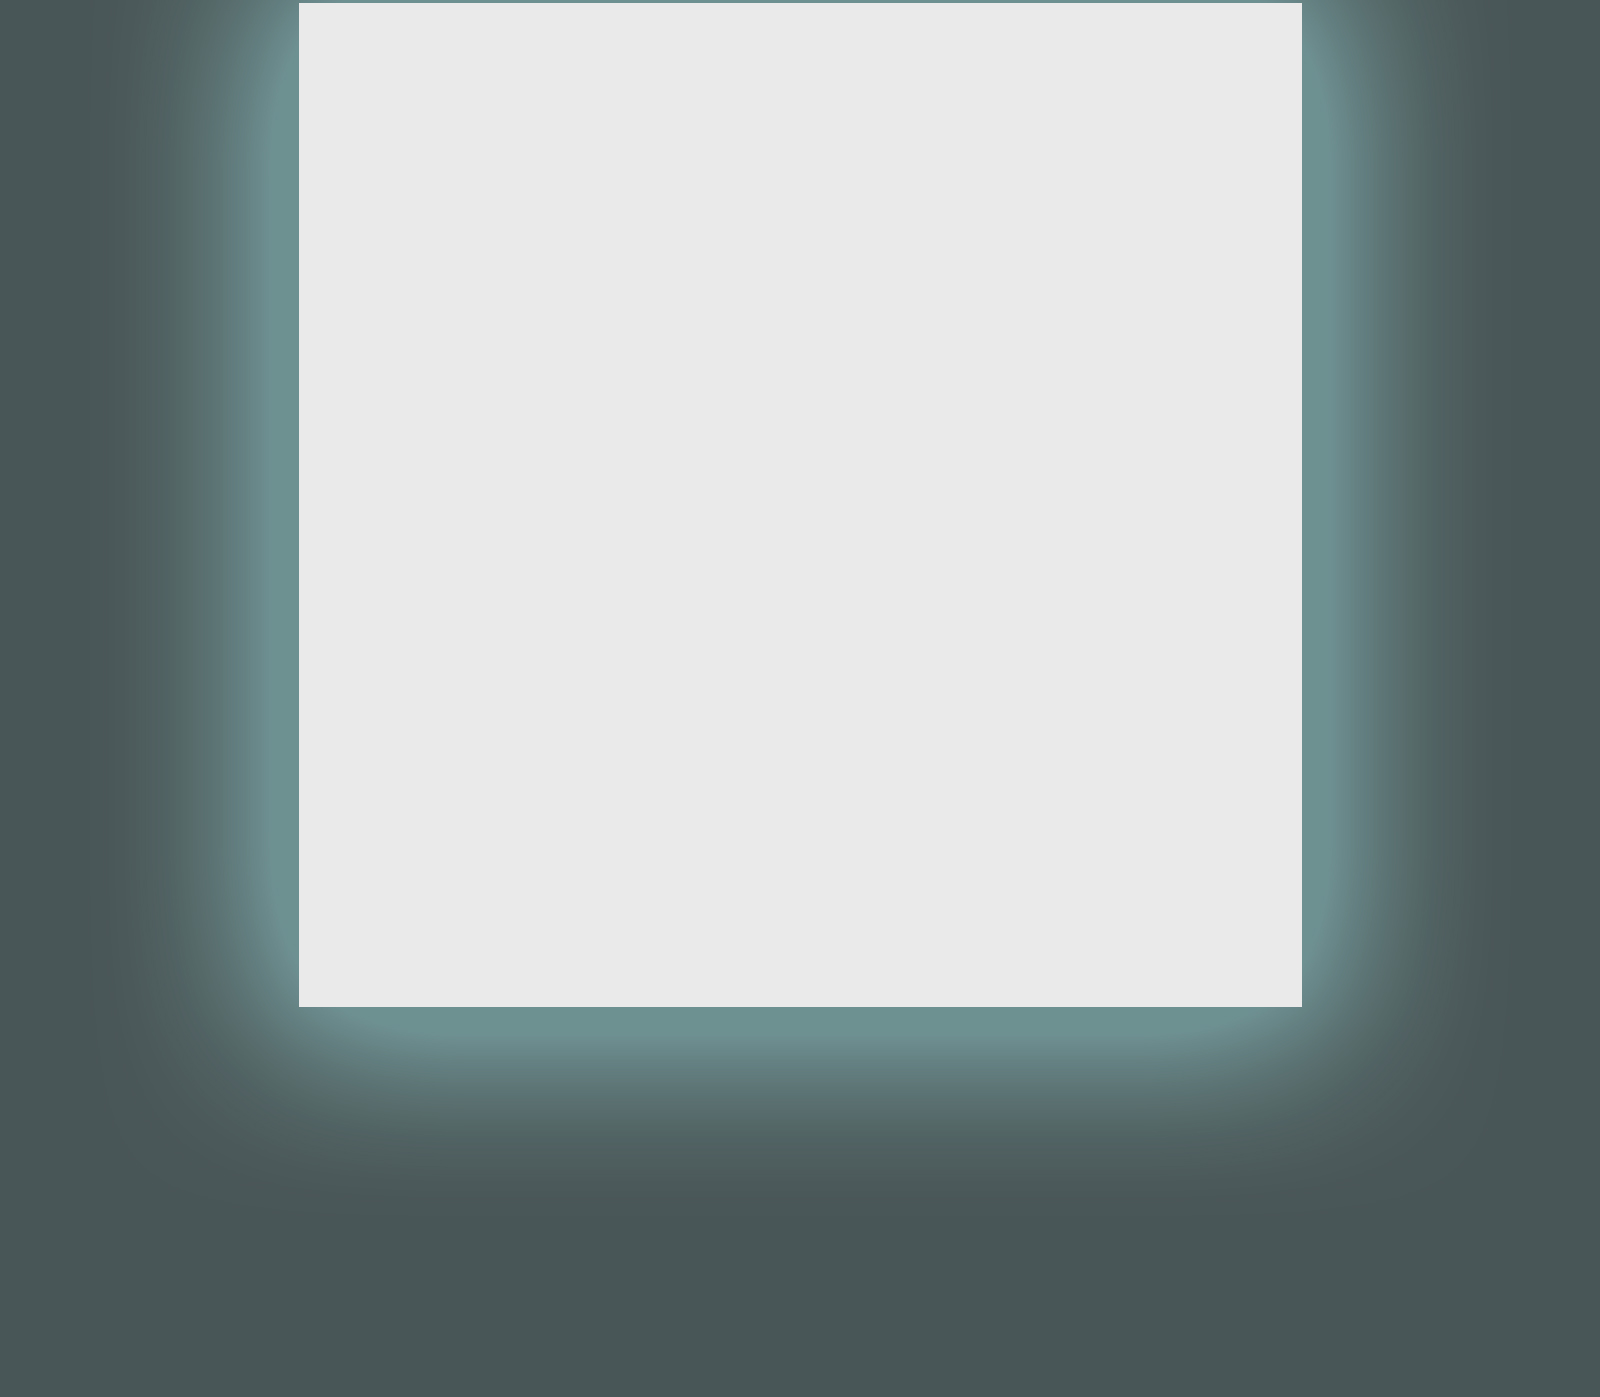
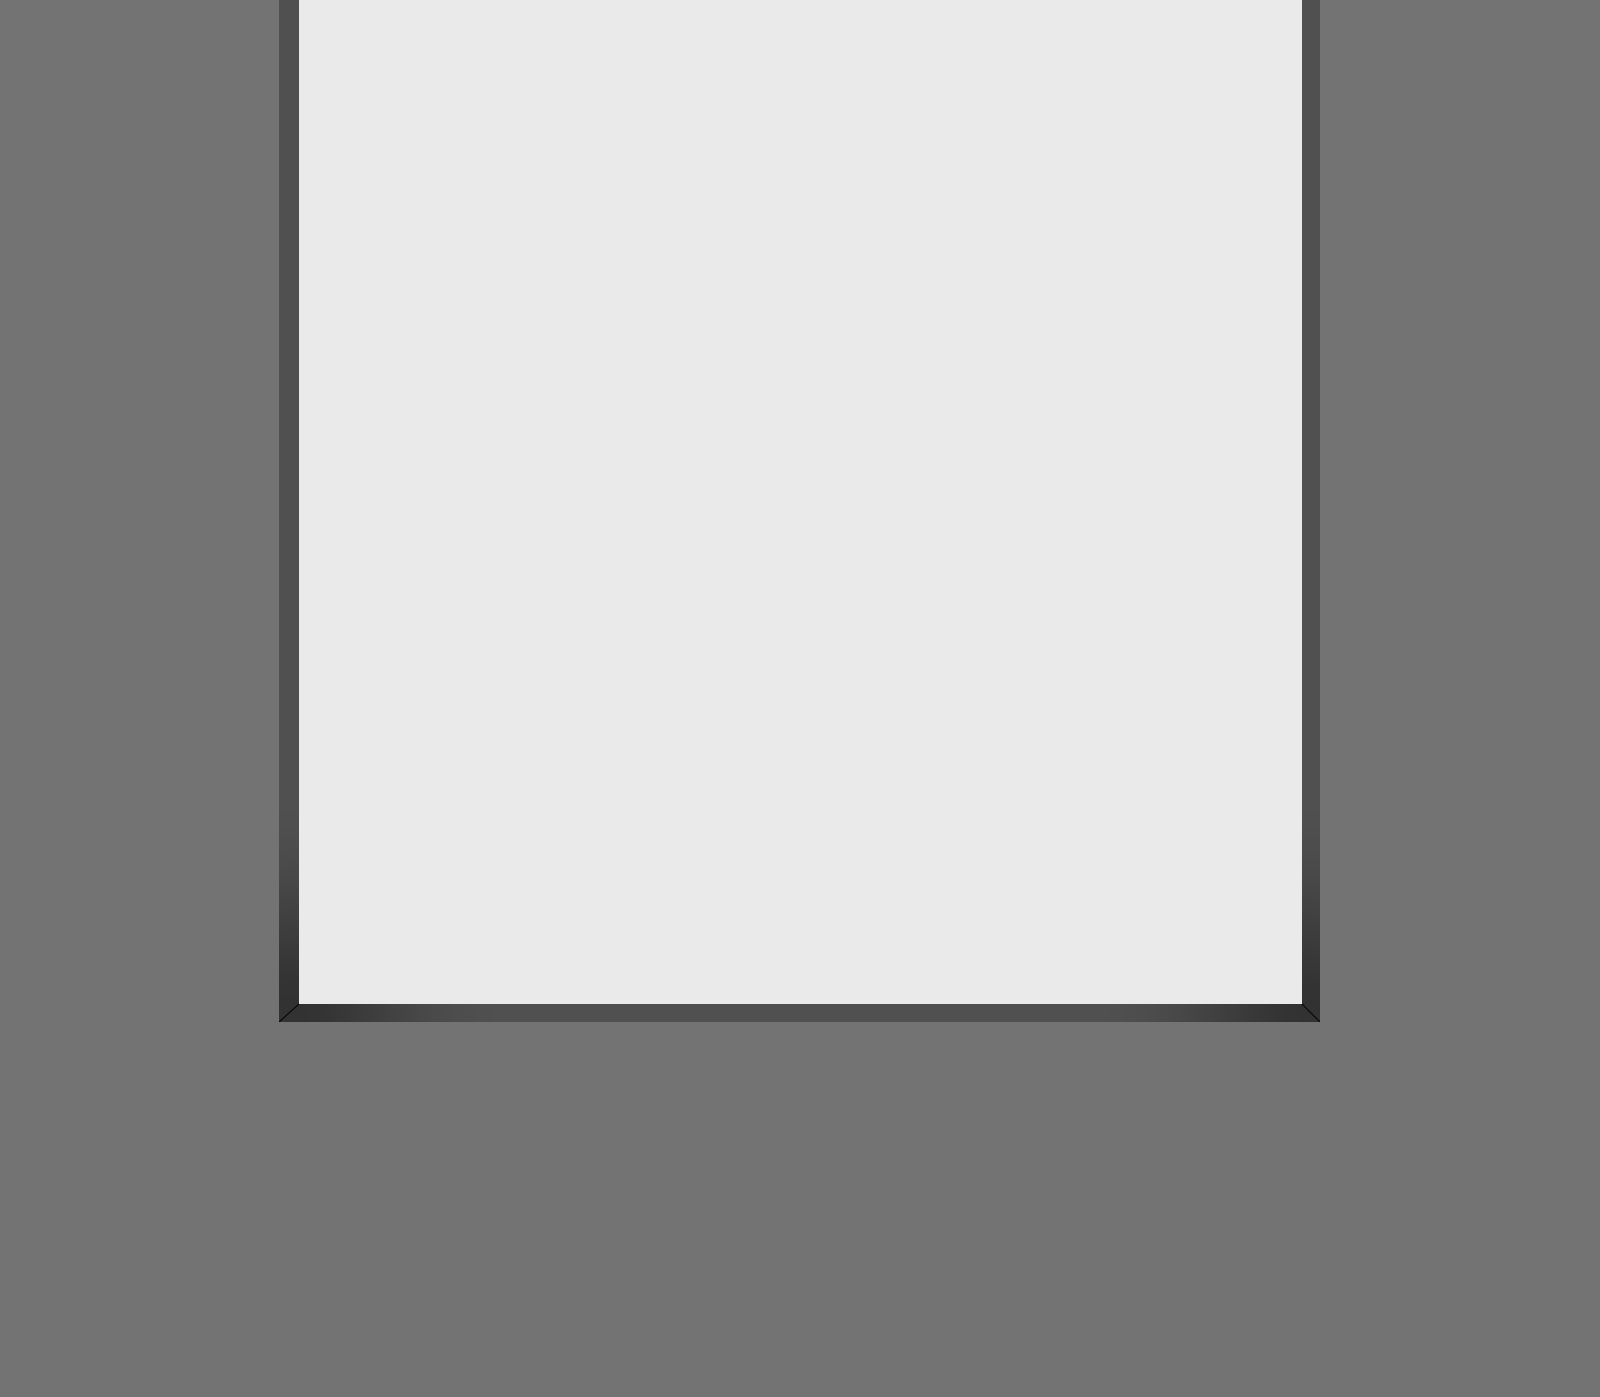
bg image

diff --git a/index.html b/index.html
@@ -14,10 +14,10 @@
 			color:#ffffff;
 			overflow-x: hidden;
 			overflow-y: hidden;
-			/*background-image: url("img/bg-sp-1.jpg");
+			background-image: url("img/bg-sp-1.jpg");
 			background-position: top center;
-    		background-size: 797px 693px;
-    		background-repeat: no-repeat;*/
+    		background-size: 796px 695px;
+    		background-repeat: no-repeat;
 		}
 
 		body {
@@ -31,7 +31,7 @@
 			transition: all .2s ease-in;
 		}
 		#shipConsole {
-	    	margin:0 auto;
+	    	margin:10px auto 0;
 	    	overflow:scroll;
 	    	overflow-y: hidden;
 	    	overflow-x: hidden;

diff --git a/index.js b/index.js
@@ -7,7 +7,7 @@ let mainWindow
 
 function createWindow () {
   // Create the browser window.
-  mainWindow = new BrowserWindow({width: 800, height: 720})
+  mainWindow = new BrowserWindow({width: 800, height: 730})
 
   // and load the index.html of the app.
   mainWindow.loadFile('index.html')
